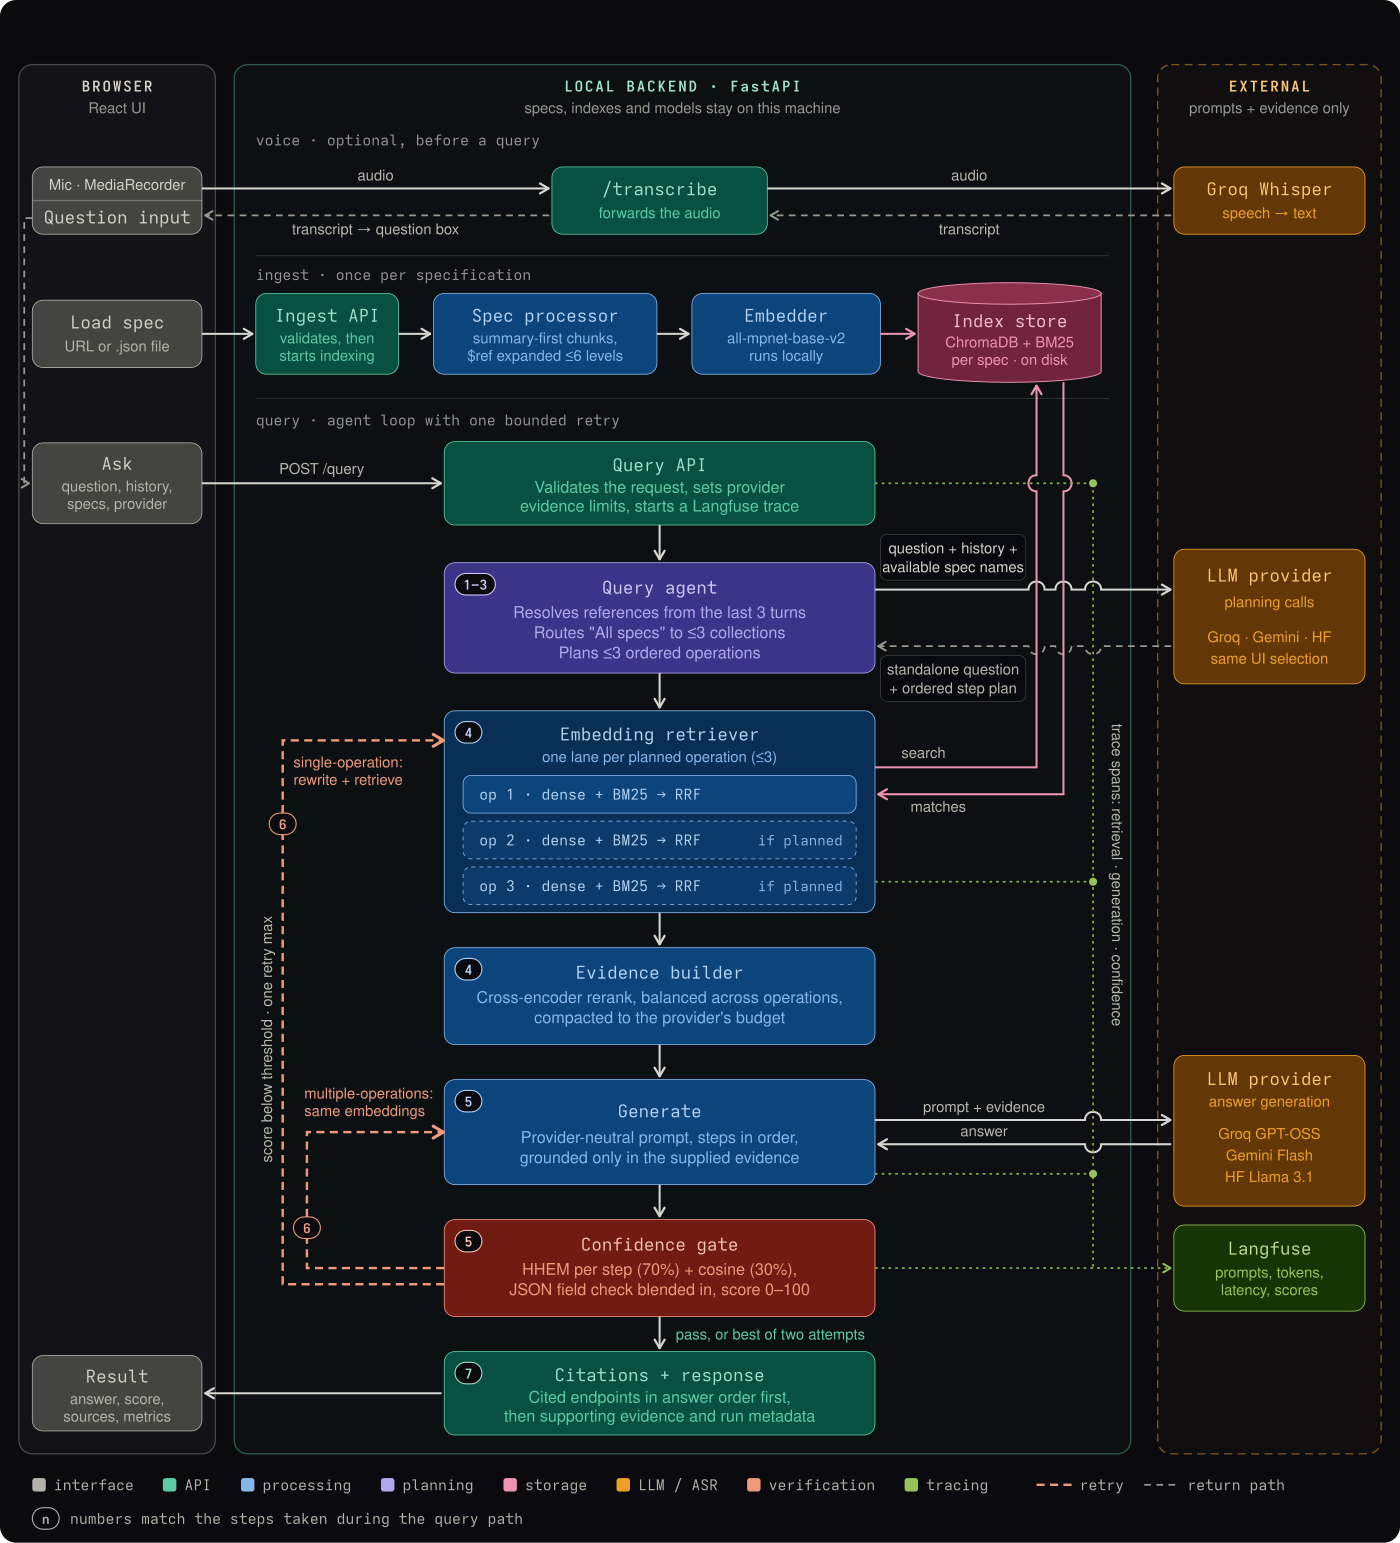
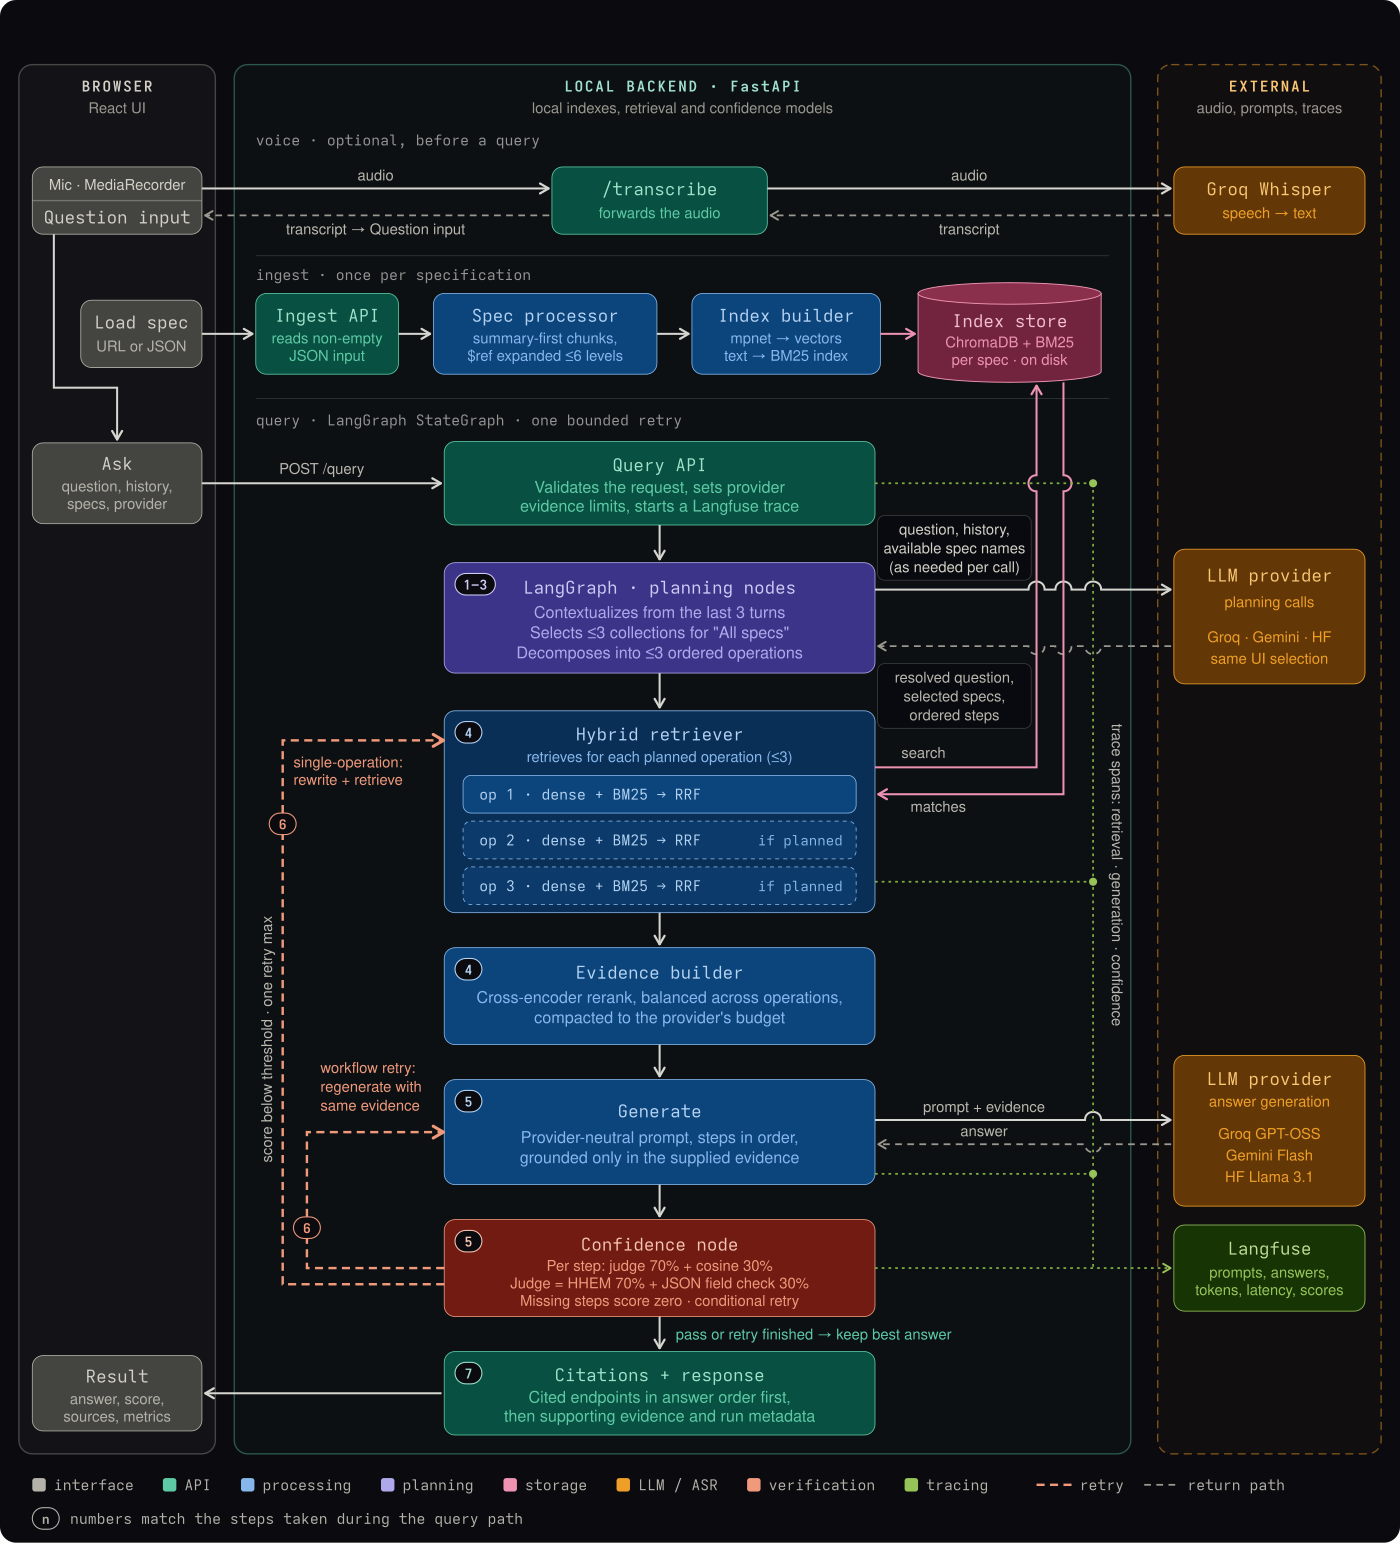
update README and diagrams with latest changes

diff --git a/README.md b/README.md
@@ -6,6 +6,7 @@
 
 ![Python](https://img.shields.io/badge/Python-3.11+-3776AB?style=flat-square&logo=python&logoColor=white)
 ![FastAPI](https://img.shields.io/badge/FastAPI-0.110+-009688?style=flat-square&logo=fastapi&logoColor=white)
+![LangGraph](https://img.shields.io/badge/LangGraph-StateGraph-1C3C3C?style=flat-square)
 ![React](https://img.shields.io/badge/React-19+-61DAFB?style=flat-square&logo=react&logoColor=black)
 ![ChromaDB](https://img.shields.io/badge/ChromaDB-Vector_Store-FF6B35?style=flat-square)
 ![Langfuse](https://img.shields.io/badge/Langfuse-Observability-000000?style=flat-square)
@@ -24,7 +25,7 @@ The standard advice for understanding an API is "just paste the spec into ChatGP
 | Problem | DocQuery's Solution |
 |---|---|
 | Stripe's spec is ~50,000 lines - won't fit in any context window | RAG retrieves only the relevant chunks per query |
-| Whole specifications are too large or sensitive to send on every request | Specs stay in local indexes; only the bounded evidence selected for a query is sent to the configured LLM provider |
+| Whole specifications are too large or sensitive to send on every request | Specs are indexed locally; the selected LLM receives bounded evidence and question/planning context, including recent history or specification names when needed |
 | LLM training data has a cutoff - new endpoints are unknown | Re-ingest any time, answers always reflect the current spec |
 | Raw LLM answers can't cite where they got the answer | Every response includes the exact source endpoints |
 | Can't query multiple APIs simultaneously | Multi-spec support with per-spec ChromaDB collections |
@@ -35,19 +36,20 @@ The standard advice for understanding an API is "just paste the spec into ChatGP
 
 ## Features
 
-- **RAG pipeline** - OpenAPI spec is chunked, embedded with `all-mpnet-base-v2`, and stored in ChromaDB alongside a BM25 index; each query runs dense and keyword retrieval in parallel, fuses them with Reciprocal Rank Fusion (RRF), then re-ranks candidates with a cross-encoder before hitting the LLM.
+- **RAG pipeline** - OpenAPI spec is chunked, embedded with `all-mpnet-base-v2`, and stored in ChromaDB alongside a BM25 index built from tokenized chunk text; each query runs dense and keyword retrieval, fuses them with Reciprocal Rank Fusion (RRF), then re-ranks candidates with a cross-encoder before hitting the LLM.
 - **`$ref` resolution** - request body schemas are fully dereferenced at ingest time, including `allOf`, `anyOf`, and `oneOf` composition patterns (up to 6 levels deep), so field names like `name` are semantically searchable.
-- **Confidence scoring** - a hybrid of Vectara's HHEM hallucination model (70%) and cosine similarity (30%), with a JSON field grounding check blended into the HHEM score. Falls back to cosine-only if HHEM is unavailable.
+- **Confidence scoring** - 70% judge score + 30% cosine similarity. The judge itself blends Vectara's HHEM hallucination score (70%) with JSON field grounding (30%). Falls back to cosine-only if HHEM scoring fails.
 - **Source citations** - every answer includes the exact HTTP method + path that grounded it; endpoints cited in the final answer appear first in workflow order, followed by supporting retrieval evidence.
 - **Multi-spec support** - ingest multiple APIs simultaneously and switch between them with one click
 - **Dual ingest modes** - paste a public URL or upload a local `.json` file (for private/internal specs)
 - **Persistent vector store** - ChromaDB and BM25 indexes persist to disk; specs survive restarts without re-ingestion.
 - **Voice input** - record a question via the browser's MediaRecorder API; audio is transcribed by Whisper via Groq (~1s) and populated into the query box automatically.
 - **Pipeline observability** - every query is traced end-to-end with Langfuse; retrieval span logs which endpoints were retrieved, the LLM generation span logs the full prompt and answer, and confidence scores are tracked as metrics across all queries.
+- **LangGraph orchestration** - the full query lifecycle runs as a compiled `StateGraph`, with typed request state and confidence-driven conditional edges for bounded regeneration or rewrite-and-retrieval.
 - **Confidence-gated self-correction** - when an answer scores below the grounding threshold, the agent makes one bounded retry and keeps the better-grounded attempt. Workflow retries preserve the balanced evidence set; single-operation retries may rewrite and retrieve again.
 - **Workflow-aware answers** - compound questions are decomposed into at most three focused operations; evidence is labelled per operation, exact action matches are prioritized, and the answer must cover every step in order. Missing steps reduce confidence and trigger correction.
 - **Workflow-aware confidence** - each answer step is scored only against the evidence retrieved for its corresponding operation; missing steps or missing labelled evidence contribute zero instead of letting unrelated chunks inflate the score.
-- **Conversational follow-ups** - the browser sends the last three successful exchanges to resolve references such as "that endpoint" into standalone retrieval questions; history is not stored server-side and resets when switching specifications.
+- **Conversational follow-ups** - the browser sends the last three successful exchanges to resolve references such as "that endpoint" into standalone retrieval questions; the backend keeps no persistent conversation memory, and browser history resets when switching specifications. Provider calls and configured tracing can contain this context.
 - **Cross-spec queries** - an "All specifications" mode routes questions to at most three relevant API collections, combines their evidence, and labels every cited endpoint with its source specification.
 
 ---
@@ -56,15 +58,19 @@ The standard advice for understanding an API is "just paste the spec into ChatGP
 
 ![Architecture](images/architecture.svg)
 
-The query path is an agent loop rather than a single retrieve-and-generate call:
+The query path is a compiled LangGraph `StateGraph` rather than a single retrieve-and-generate call:
 
 1. Resolve conversational references using up to three client-supplied history turns.
 2. Route `All specifications` questions to at most three relevant local collections.
 3. Decompose compound questions into at most three ordered operations.
 4. Retrieve and balance hybrid evidence per operation, then compact it to the selected provider's budget.
 5. Generate with Groq, Gemini, or Hugging Face and score each answer step only against its labelled evidence group.
-6. If confidence is below the provider-aware threshold, make one corrective attempt and retain the higher-scoring result.
+6. Let the confidence node choose a conditional edge: finalize when the threshold is met, regenerate a workflow from the same balanced evidence, or rewrite a single-operation query and retrieve again. Stop after one corrective attempt and retain the higher-scoring result.
 7. Return citations reordered to match the endpoints as they appear in the answer, followed by supporting evidence.
+
+Planning uses the selected external LLM: contextualization sends the question and recent history when valid history is present; routing sends the question and available specification names for `All specifications` when more than three collections exist; decomposition sends the resolved question to produce one to three retrieval queries. These are separate calls. With no history, one selected specification, and no retry, the normal path makes two LLM calls: decomposition and answer generation. The response's `agent.resolved_question` and `agent.selected_specs` come from the completed graph state.
+
+The backend keeps indexes locally and does not persist conversation history as application memory. Query evidence and planning context are sent to the selected provider; optional voice input sends recorded audio to Groq Whisper. When Langfuse tracing is enabled, prompts (including retrieved evidence), answers, and run metadata are also sent to the configured Langfuse service.
 
 ---
 
@@ -76,17 +82,17 @@ The query path is an agent loop rather than a single retrieve-and-generate call:
 
 **Hybrid BM25 + dense retrieval with RRF** - Dense embeddings capture semantic similarity; BM25 catches exact keyword matches (endpoint paths, parameter names). Reciprocal Rank Fusion combines both ranked lists into a single candidate set without needing a tuned interpolation weight. A cross-encoder then re-ranks the fused top-N for precision before the prompt is built.
 
-**Bounded agent orchestration** - The agent resolves follow-ups, routes across specifications, and creates a plan of at most three operations before retrieval. Evidence is tagged by operation and merged with a per-step allowance so one high-scoring endpoint cannot crowd out the rest of a workflow. The loop is deliberately bounded to one corrective attempt, keeping latency and free-tier usage predictable.
+**Bounded agent orchestration** - A LangGraph `StateGraph` resolves follow-ups, routes across specifications, and creates a plan of at most three operations before retrieval. Its confidence node conditionally finalizes, regenerates from balanced workflow evidence, or rewrites and returns to retrieval for a single-operation query. The graph is deliberately bounded to one corrective attempt, keeping latency and free-tier usage predictable.
 
 **Provider-aware evidence budgets** - Groq, Gemini, and Hugging Face share the same orchestration path but receive different chunk and character budgets. Oversized schemas are compacted while preserving endpoint identity, required fields, and workflow-linking parameters. This prevents provider payload errors without weakening the plan itself.
 
-**BM25 + RRF over HyDE** - HyDE generates a hypothetical answer to use as a proxy query, which helps when queries are vague and documents are unstructured prose. API documentation is the opposite: queries are specific ("how do I update a customer") and documents are structured chunks with exact method+path identifiers. In that setting HyDE introduces hallucination risk at the retrieval stage - a fabricated answer may embed closer to the wrong endpoint than the right one. BM25 handles this domain more reliably: "update a customer" is a near-exact keyword match to `Update a customer — PATCH /v1/customers/{customer}`, whereas a dense-only retriever can rank it far lower because the embedding model doesn't bridge synonyms like "modify" → "update" at query time. Running both in parallel and fusing with RRF captures keyword precision and semantic recall without the hallucination risk HyDE introduces at retrieval.
+**BM25 + RRF over HyDE** - HyDE generates a hypothetical answer to use as a proxy query, which helps when queries are vague and documents are unstructured prose. API documentation is the opposite: queries are specific ("how do I update a customer") and documents are structured chunks with exact method+path identifiers. In that setting HyDE introduces hallucination risk at the retrieval stage - a fabricated answer may embed closer to the wrong endpoint than the right one. BM25 handles this domain more reliably: "update a customer" is a near-exact keyword match to `Update a customer — PATCH /v1/customers/{customer}`, whereas a dense-only retriever can rank it far lower because the embedding model doesn't bridge synonyms like "modify" → "update" at query time. Combining both with RRF captures keyword precision and semantic recall without the hallucination risk HyDE introduces at retrieval.
 
-**HHEM + cosine confidence scoring** - Vectara's Hallucination Evaluation Model (HHEM) scores factual consistency between the answer prose and retrieved chunks. For workflows, each `Step N` is evaluated against only its labelled retrieval group using a bounded, answer-relevant context, and the step scores are averaged with missing steps scored as zero. A separate JSON field grounding check verifies that code examples use only fields present in the spec. The signals are blended with cosine similarity as a fallback, giving a 0–100 grounding and completeness score.
+**HHEM + cosine confidence scoring** - Vectara's Hallucination Evaluation Model (HHEM) scores factual consistency between the answer prose and retrieved chunks. For workflows, each `Step N` is evaluated against only its labelled retrieval group using a bounded, answer-relevant context, and the step scores are averaged with missing steps or missing evidence scored as zero. A separate JSON field grounding check verifies that code examples use only fields present in the spec. Each step uses 70% judge + 30% cosine, where the judge is 70% HHEM + 30% JSON field grounding; if HHEM scoring fails, that step uses cosine alone.
 
 **Per-spec ChromaDB collections + BM25 indexes** - Each ingested API gets its own ChromaDB collection and a paired `.pkl` BM25 index on disk. This allows simultaneous multi-spec support with zero cross-contamination and O(1) collection switching.
 
-**Dual ingest modes** - URL ingest and local JSON upload both converge at the same `extract_chunks()` function. Ingestion and indexing stay local; query-time retrieved evidence is sent to whichever external LLM provider you select.
+**Dual ingest modes** - URL ingest and local JSON upload both converge at the same `extract_chunks()` function. Input checks cover JSON parsing and non-empty content, rather than full OpenAPI schema validation. Chunking and indexing run locally; query-time evidence and planning context are sent to whichever external LLM provider you select.
 
 **Selectable LLM providers** - Groq GPT-OSS, Gemini Flash, and Hugging Face Llama use one provider-neutral prompt and expose their model, latency, call count, token usage, and evidence budget in each response. This makes answer quality and free-tier trade-offs directly comparable.
 
